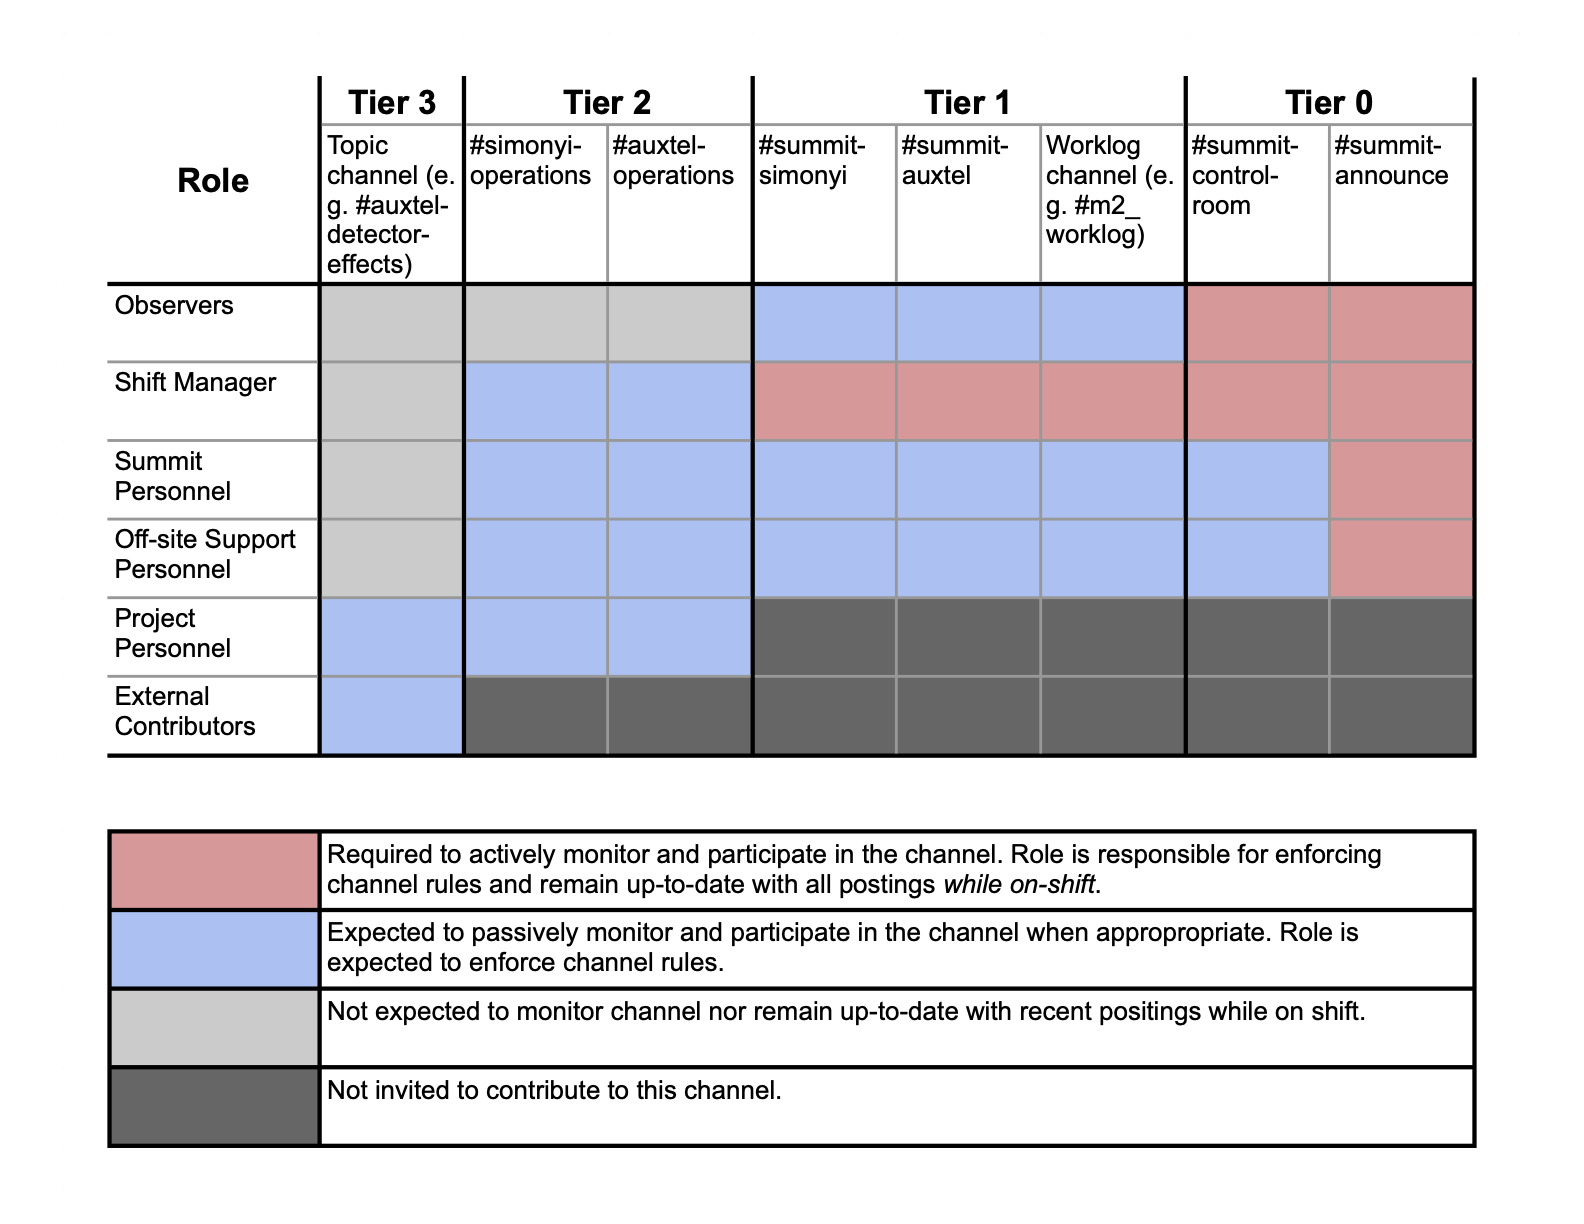
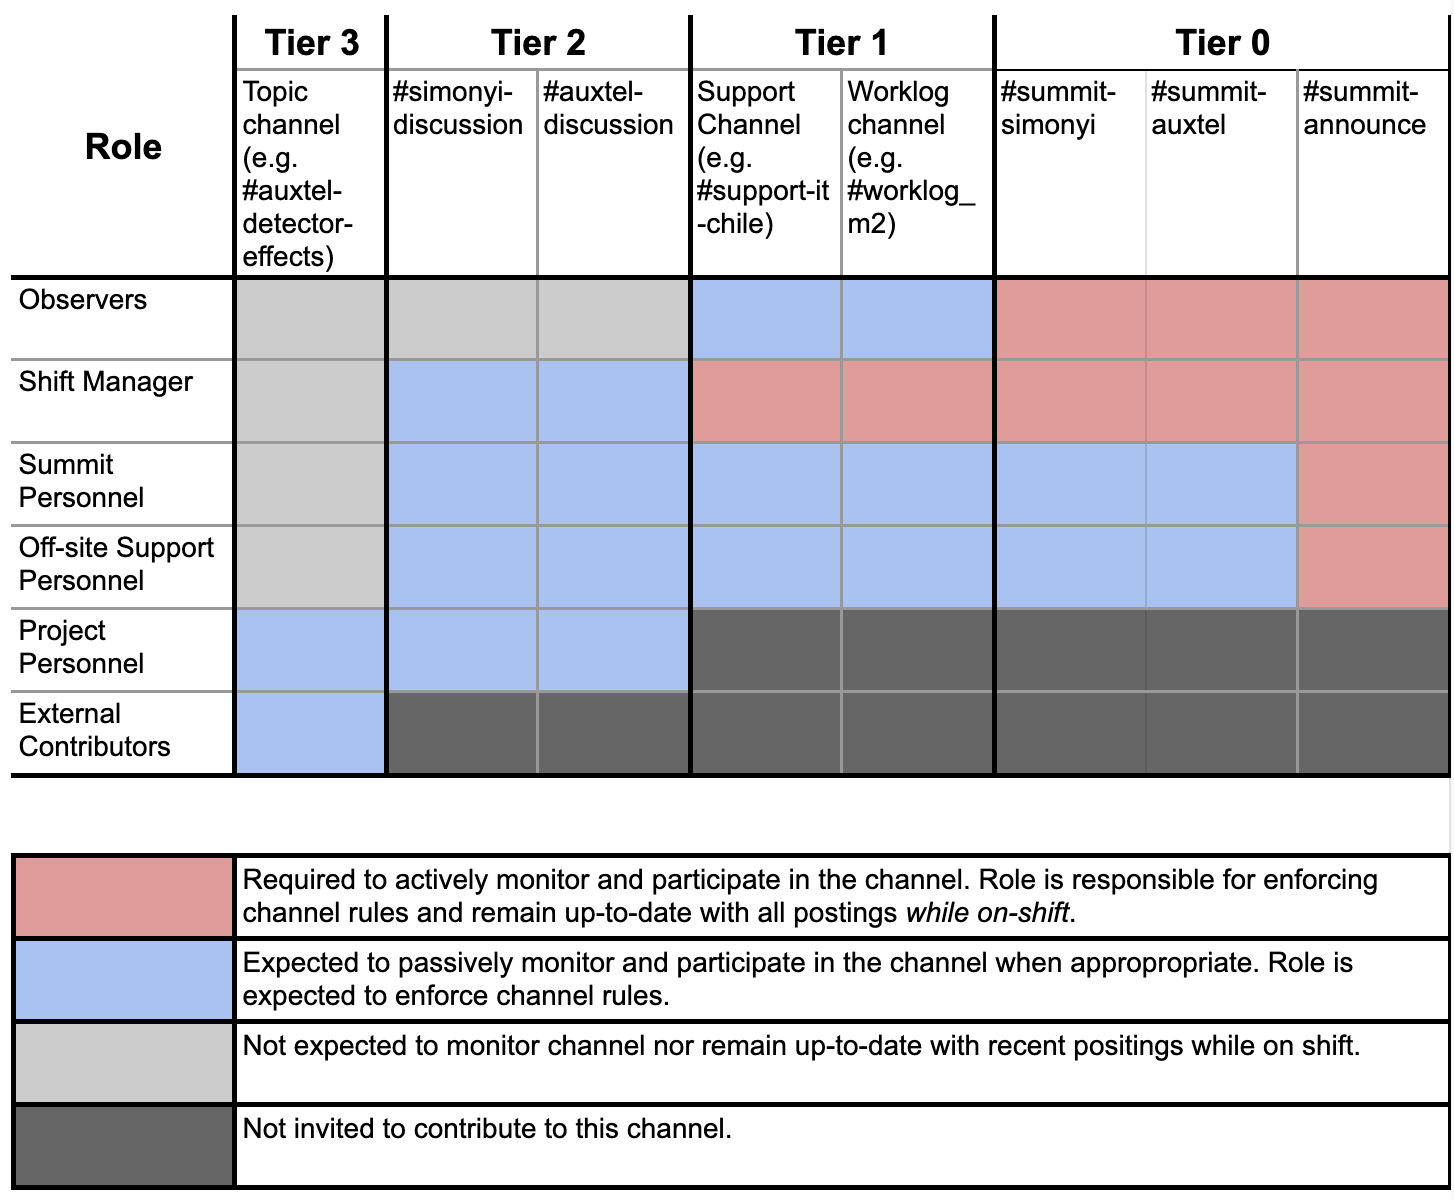
Update Slack-channel-usage page for new slack space.

diff --git a/Daytime-Nighttime-Interactions/slack-channel-usage.rst b/Daytime-Nighttime-Interactions/slack-channel-usage.rst
@@ -24,17 +24,17 @@
 Slack Channel Communication with Summit Personnel
 #################################################
 
-The LSSTC Slack space is used by hundreds of people with varying levels of interest in summit operations. 
+The Rubin Obs Slack space is used by hundreds of people with varying levels of interest in summit operations. 
 The goal of this document is to communicate the acceptable usage of the specific set of channels that are focused on day and nighttime summit operations. 
 The document also describes the channels where more informal discussions and contributions from non-summit staff can be communicated to the observing crew(s). 
 
-In operations, all slack channels are expected to be open to everyone on the lsstcorp Slack domain.
-However, should people continually violate the rules (and people fail to police them) then we will have to lock the channels. 
+This document and the use-cases described are summit-specific and they do not cover general slack culture and usage. 
+For more information on channel naming, slack culture, and general usage guidelines please see the `DM Developer's Guide <https://developer.lsst.io/communications/slack-culture.html>`_. 
 
 .. important::
    Three ground rules for usage - read this if nothing else:
 
-   1. Personnel not present on the summit are generally discoraged from using tier 0 and 1 channels, though many exceptions to this are detailed in this page. If you do not know if you should use the tier 0 or 1 channel, do not use it.
+   1. Personnel not present on the summit are generally discouraged from using tier 0 and 1 channels, though many exceptions to this are detailed in this page. If you do not know if you should use the tier 0 or 1 channel, do not use it.
 
    2. Work with summit systems should use public channels, not direct messages with with individuals.
 
@@ -54,8 +54,6 @@ For ease of presentation, it was decided to classify the stakeholders by the fol
 
 - Project Personnel: General project members that have slack accounts. This is the default category for most project members and individuals generally advance to other categories when actively on shift.
 
-- External Contributors: People that share the same slack user-space but do not participate in summit operations (e.g. DESC).
-
 While on-shift, the people in each of these roles will have varying responsibilities regarding which information they need to be paying attention to and/or responding to.
 The ultimate goal is to facilitate effective communications to summit personnel by concentrating information into specific places and minimizing distractions.
 It is recognized that all project personnel are capable of contributing useful input, however, unless the people are very close to the on-going tasks there exists a significant awareness gap.
@@ -63,19 +61,20 @@ Therefore, a flow via which anyone on the project can participate has been devel
 Additionally, this limits the number of simultaneous lines of communication that summit personnel are expected to monitor during their shifts.
 
 To better communicate the expectations for each of the roles, and demonstrating the information flow, the list of required Slack channels have been categorized into Tiers. 
-We use the "summit" prefix for channels that are tightly coupled to summit operations.
 
 - **Tier 0:** Real-time information that the applicable roles are always monitoring and are expected to immediately react to (when on shift and interacting with summit systems). 
   Responding to a message may result in a loss of sky time, which is acceptable. 
   Communication in this area meant to be extremely curt. 
   People providing urgent support are encouraged to do so via Zoom; not via Slack.
+  These channels are distinguished by their **#summit-** prefix. 
 
 - **Tier 1:** Used for asynchronous information communication regarding the state of summit systems. 
   These channels are telescope or subsystem specific, do not require immediate response, and are passively monitored by on-shift observers. These include subsystem topic "worklog" channels.
   It is primarily used for communication between summit personnel and externally **requested** support.
+  These channels are often distinguished by their **#-worklog** or **#-support** suffix.
 
 - **Tier 2:** General discussion channels whose information and/or contents are not time critical operation of the observatory at night.
-  The shift managers monitor these channels to relay any pertinent information between external support and the summit teams. These channels have much fewer restrictions on who can participate, useful for the braoder team to contribute information they think might be important to summit operations, which can then be filtered to the summit crew.
+  The shift managers monitor these channels to relay any pertinent information between external support and the summit teams. These channels have much fewer restrictions on who can participate, useful for the broader team to contribute information they think might be important to summit operations, which can then be filtered to the summit crew.
 
 - **Tier 3:** Channels not directly associated with current summit activities. 
   These are channels for collaborative work, which make up the high majority of Slack channels.
@@ -85,6 +84,28 @@ We use the "summit" prefix for channels that are tightly coupled to summit opera
     :name: Slack-channel-diagram
 
     The expected level of participation by summit personnel to observation-related slack channels.
+
+In order to help keep communication protocols clear, it is recommended to use the :guilabel:`Create Section` feature in Slack to organize the channel display by Tier. 
+The following are the recommended channels that one should include in each Section:
+
+Tier 0
+------
+- #summit-announce
+- #summit-simonyi
+- #summit-auxtel
+
+Tier 1
+------
+- #xxx-worklog
+- #xxx-support
+
+Tier 2
+------
+- User Preference
+
+Tier 3
+------
+- All other channels
 
 
 Individual Channel Descriptions and Guidelines
@@ -104,7 +125,7 @@ People who participate in testing or infrastructure support/development are expe
 
 Because work is being coordinated across multiple channels,this channel aims to restrict the need to make announcements multiple places and avoid the scenario of accidentally not informing all impacted parties.
 
-For items having substantial impact, scheduling should first be carried out as part of the `SUMMIT Jira calendar <https://jira.lsstcorp.org/secure/DoItBetterCalendar.jspa>`_ process.
+For items having substantial impact, scheduling should first be carried out as part of the `SUMMIT Jira calendar <https://rubinobs.atlassian.net/plugins/servlet/ac/doitbetter.calendar/calendar-page>`_ process.
 
 **Announcement Protocol:**
 
@@ -127,40 +148,16 @@ For items having substantial impact, scheduling should first be carried out as p
   
 - This channel is specific to summit related activities.
   Announcements for testing using other test-stands are to be made on test-stand specific channels, following the same rules.
-  This includes #rubinobs-tucson-teststand and #rubinobs-base-teststand
+  This includes #tucson-teststand and #base-teststand.
 
-- The summit is an active observatory with many teams working on different tasks. Personnel on the summit should never be discourgaged from announcing their work as impacts may be unforseen or unpredictable.
-
-
-#summit-control-room
---------------------
-This room is actively monitored by observers and shift managers. This may be used to bring urgent concerns to observers.
-
-This is a single channel for both telescopes which is actively monitored by telescope specialists and anyone controlling the system.
-As observers are expected to actively monitor and reply to this channel, extended conversations may impact efficient work and discussion via zoom is encouraged.
-Breakout rooms can be used if multiple simultaneous conversations are required.
-
-This channel may be used as the area where the copying/pasting of code snippets happens while supporting via zoom, therefore context will often not be provided.
-Troubleshooting in this area should be either system-wide, or concerning other observatory systems seperate from the telescopes.
-
-An example of troubleshooting belonging to this channel is found in the following figure.
-
-.. figure:: ./_static/dialog_example.png
-    :name: #summit-control-room example
-    :width: 560
-    :height: 399
-
-    An example of the type of troubleshooting conversation that should take place in #summit-control-room.
-
+- The summit is an active observatory with many teams working on different tasks. 
+  Personnel on the summit should never be discouraged from announcing their work as impacts may be unforeseen or unpredictable.
 
 #summit-simonyi and #summit-auxtel
 ----------------------------------
 
 These rooms are for telescope system specific asynchronous conversation with remote support.
-They are passively monitored by on-shift observers with no expectation of an immediate response.
-Generally, the content will be read at the start and end of a shift, or during quiet periods.
-
-These channels are actively monitored by shift manager(s), who will directly contact observers if/when required.
+They are actively monitored by on-shift observers and shift manager(s).
 
 Example content:
 
@@ -174,7 +171,7 @@ Example content:
 
 - Not required, but used by some observers to give periodic status updates during the night.
 
-#auxtel-operations and #simonyi-operations
+#auxtel-discussion and #simonyi-discussion
 ------------------------------------------
 
 These channels are also telescope system specific but are dedicated for communication between people providing external support, such as looking at data as it comes in.
@@ -196,5 +193,19 @@ Example content:
 - Enhancements and/or curious features with RubinTV 
 
 - New features in system behavior (e.g. mount shake)
+
+Channel Creation and Naming Guidelines for Summit Channels
+==========================================================
+
+The Tiered system reserves certain prefixes to help classify summit communication channels by their expected usage. 
+Therefore, the following are reserved for each Tier, and when creating a new Slack channel for summit use one should not use them unless you are certain the new channel will belong to the given Tier:
+
+- Tier 0: #summit-
+- Tier 1: #-worklog and #-support
+
+The naming guidelines for Tier 2 and Tier 3 channels are less restrictive, 
+but a few conventions should be followed:
+
+- Tier 2 channels benefit from having either a subsystem names (e.g. #simonyi-, #comcam-) or team names (#dm-, #sitcom-, #ts-) as a prefix. This is not strictly enforced.  
 
 This procedure was last modified |today|.
